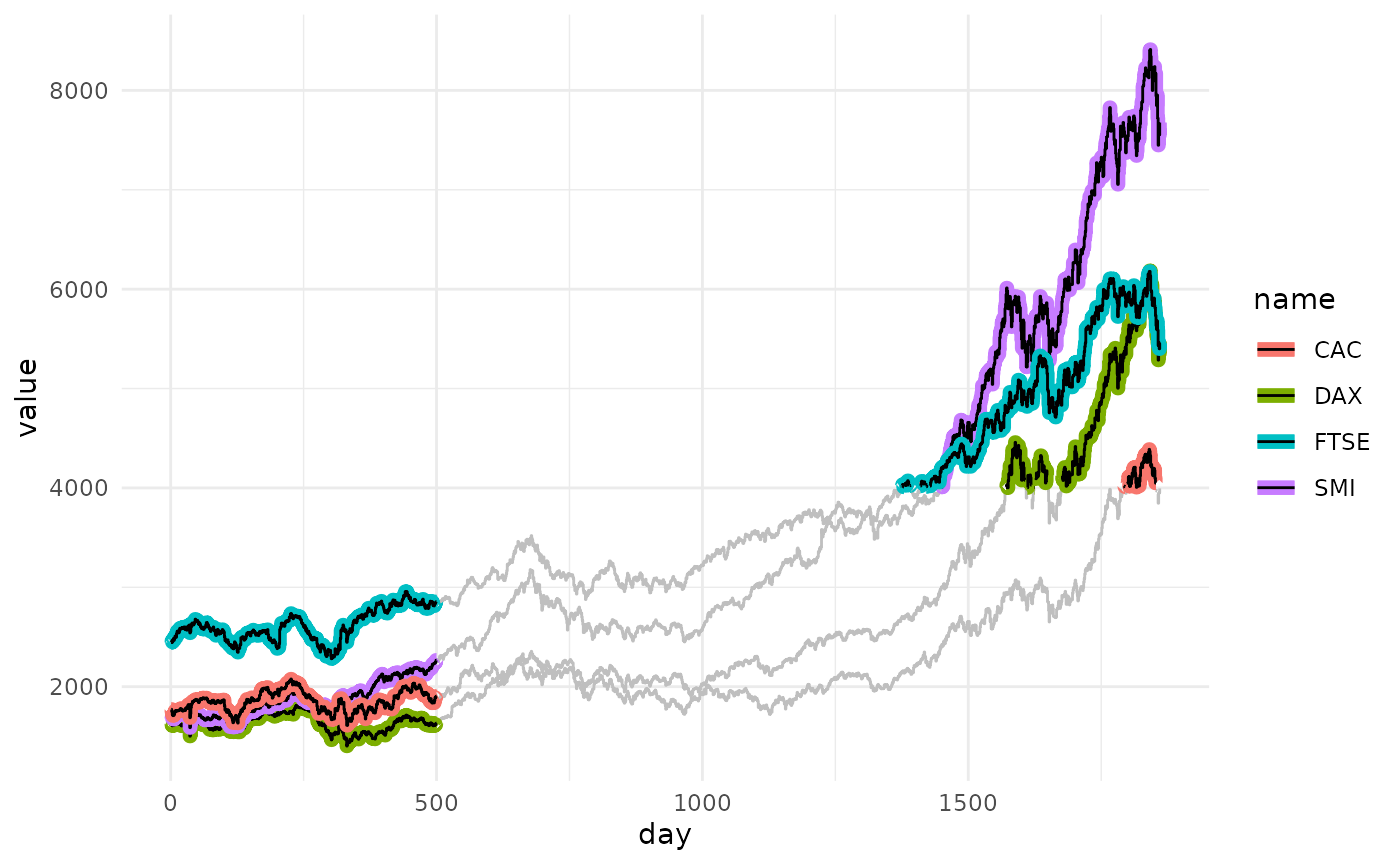
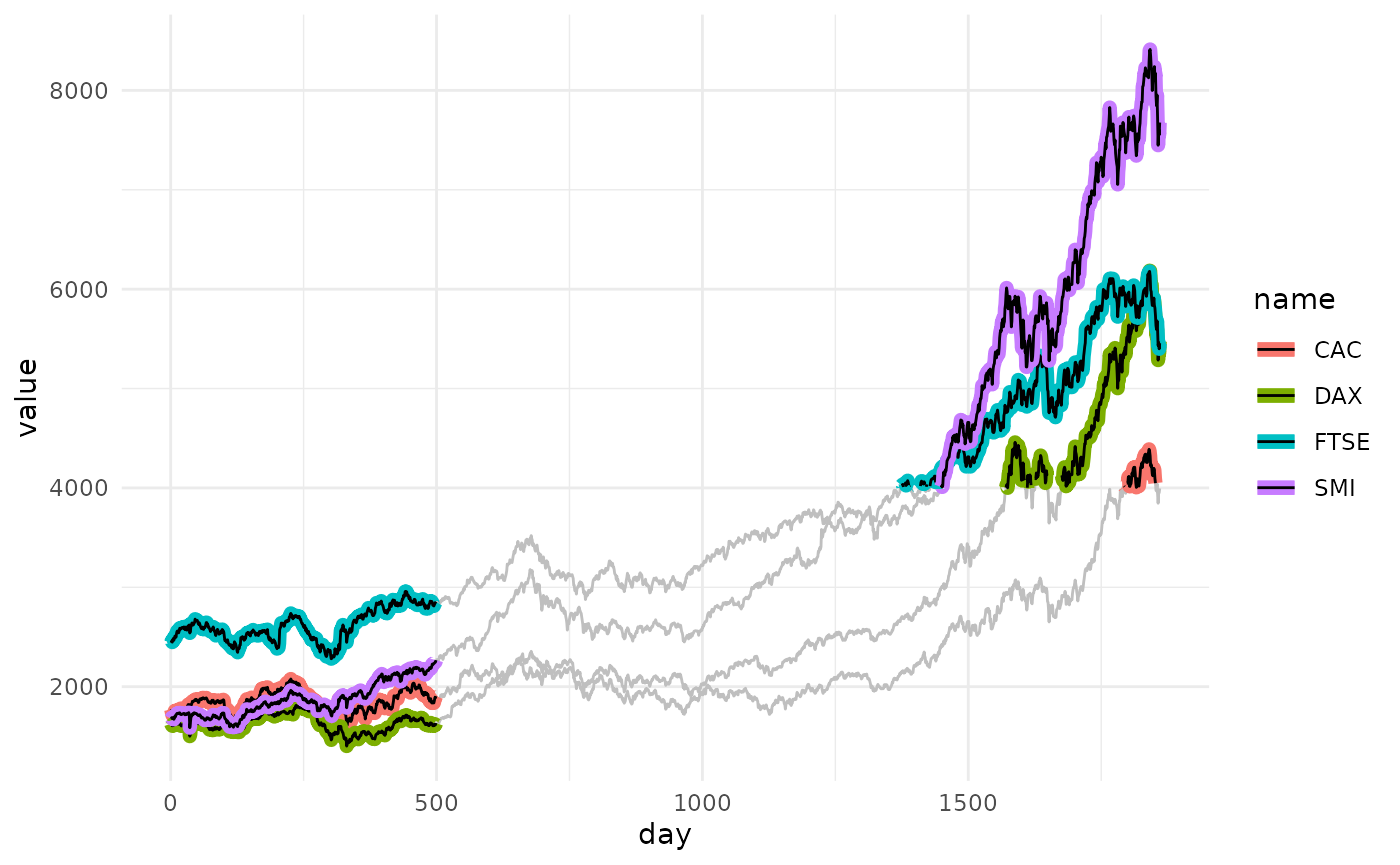
Built site for ggtrace: 0.0.0.9000@6da3d52

diff --git a/articles/geom-line-trace.html b/articles/geom-line-trace.html
@@ -84,7 +84,7 @@
     <div class="page-header toc-ignore">
       <h1 data-toc-skip>geom_line_trace</h1>
             
-            <h4 class="date">September 17 2021</h4>
+            <h4 class="date">September 21 2021</h4>
       
       <small class="dont-index">Source: <a href="https://github.com/rnabioco/ggtrace/blob/master/vignettes/geom-line-trace.Rmd"><code>vignettes/geom-line-trace.Rmd</code></a></small>
       <div class="hidden name"><code>geom-line-trace.Rmd</code></div>
@@ -138,8 +138,8 @@
 <code class="sourceCode R"><span class="va">clrs</span> <span class="op">&lt;-</span> <span class="fu"><a href="https://rdrr.io/r/base/c.html">c</a></span><span class="op">(</span>
   CAC  <span class="op">=</span> <span class="st">"#E69F00"</span>,
   DAX  <span class="op">=</span> <span class="st">"#0072B2"</span>,
-  SMI  <span class="op">=</span> <span class="st">"#56B4E9"</span>,
-  FTSE <span class="op">=</span> <span class="st">"#009E73"</span>
+  FTSE <span class="op">=</span> <span class="st">"#009E73"</span>,
+  SMI  <span class="op">=</span> <span class="st">"#56B4E9"</span>
 <span class="op">)</span>
 
 <span class="va">p</span> <span class="op">+</span>
@@ -170,10 +170,10 @@
 <p>The appearance of background lines can be modified by passing a named list of parameters to <code>background_params</code>.</p>
 <div class="sourceCode" id="cb5"><pre class="downlit sourceCode r">
 <code class="sourceCode R"><span class="va">p</span> <span class="op">+</span>
-  <span class="fu"><a href="../reference/geom_path_trace.html">geom_step_trace</a></span><span class="op">(</span>
+  <span class="fu"><a href="../reference/geom_path_trace.html">geom_line_trace</a></span><span class="op">(</span>
     trace_position    <span class="op">=</span> <span class="va">day</span> <span class="op">&lt;</span> <span class="fl">500</span> <span class="op">|</span> <span class="va">value</span> <span class="op">&gt;</span> <span class="fl">4000</span>,
     stroke            <span class="op">=</span> <span class="fl">1</span>,
-    background_params <span class="op">=</span> <span class="fu"><a href="https://rdrr.io/r/base/list.html">list</a></span><span class="op">(</span>fill <span class="op">=</span> <span class="st">"grey75"</span><span class="op">)</span>
+    background_params <span class="op">=</span> <span class="fu"><a href="https://rdrr.io/r/base/list.html">list</a></span><span class="op">(</span>color <span class="op">=</span> <span class="cn">NA</span>, fill <span class="op">=</span> <span class="st">"grey75"</span><span class="op">)</span>
   <span class="op">)</span></code></pre></div>
 <p><img src="geom-line-trace_files/figure-html/unnamed-chunk-5-1.png" width="700"></p>
 <p><br></p>
@@ -183,7 +183,7 @@
   <span class="fu"><a href="../reference/geom_path_trace.html">geom_line_trace</a></span><span class="op">(</span>
     trace_position    <span class="op">=</span> <span class="fu"><a href="https://rdrr.io/r/base/grep.html">grepl</a></span><span class="op">(</span><span class="st">"^[A-Z]A"</span>, <span class="va">name</span><span class="op">)</span>,
     stroke            <span class="op">=</span> <span class="fl">1</span>,
-    background_params <span class="op">=</span> <span class="fu"><a href="https://rdrr.io/r/base/list.html">list</a></span><span class="op">(</span>linetype <span class="op">=</span> <span class="fl">2</span><span class="op">)</span>
+    background_params <span class="op">=</span> <span class="fu"><a href="https://rdrr.io/r/base/list.html">list</a></span><span class="op">(</span>color <span class="op">=</span> <span class="cn">NA</span>, linetype <span class="op">=</span> <span class="fl">2</span><span class="op">)</span>
   <span class="op">)</span></code></pre></div>
 <p><img src="geom-line-trace_files/figure-html/unnamed-chunk-6-1.png" width="700"></p>
 <p><br></p>

diff --git a/reference/geom_path_trace.html b/reference/geom_path_trace.html
@@ -6,7 +6,7 @@
 <meta http-equiv="X-UA-Compatible" content="IE=edge">
 <meta name="viewport" content="width=device-width, initial-scale=1.0">
 
-<title>Trace lines to improve clarity of plots with overplotted geoms. — geom_path_trace • ggtrace</title>
+<title>Trace lines to improve clarity of plots with overplotted geoms — geom_path_trace • ggtrace</title>
 
 
 <!-- jquery -->
@@ -39,8 +39,8 @@
 
 
 
-<meta property="og:title" content="Trace lines to improve clarity of plots with overplotted geoms. — geom_path_trace" />
-<meta property="og:description" content="Trace lines to improve clarity of plots with overplotted geoms." />
+<meta property="og:title" content="Trace lines to improve clarity of plots with overplotted geoms — geom_path_trace" />
+<meta property="og:description" content="Trace lines to improve clarity of plots with overplotted geoms" />
 
 
 
@@ -123,13 +123,13 @@
 <div class="row">
   <div class="col-md-9 contents">
     <div class="page-header">
-    <h1>Trace lines to improve clarity of plots with overplotted geoms.</h1>
+    <h1>Trace lines to improve clarity of plots with overplotted geoms</h1>
     <small class="dont-index">Source: <a href='https://github.com/rnabioco/ggtrace/blob/master/R/geom-path-trace.R'><code>R/geom-path-trace.R</code></a></small>
     <div class="hidden name"><code>geom_path_trace.Rd</code></div>
     </div>
 
     <div class="ref-description">
-    <p>Trace lines to improve clarity of plots with overplotted geoms.</p>
+    <p>Trace lines to improve clarity of plots with overplotted geoms</p>
     </div>
 
     <pre class="usage"><span class='fu'>geom_path_trace</span><span class='op'>(</span>
@@ -139,7 +139,7 @@
   position <span class='op'>=</span> <span class='st'>"identity"</span>,
   <span class='va'>...</span>,
   trace_position <span class='op'>=</span> <span class='st'>"all"</span>,
-  background_params <span class='op'>=</span> <span class='cn'>NULL</span>,
+  background_params <span class='op'>=</span> <span class='fu'><a href='https://rdrr.io/r/base/list.html'>list</a></span><span class='op'>(</span>color <span class='op'>=</span> <span class='cn'>NA</span><span class='op'>)</span>,
   lineend <span class='op'>=</span> <span class='st'>"butt"</span>,
   linejoin <span class='op'>=</span> <span class='st'>"round"</span>,
   linemitre <span class='op'>=</span> <span class='fl'>10</span>,
@@ -159,7 +159,7 @@
   show.legend <span class='op'>=</span> <span class='cn'>NA</span>,
   inherit.aes <span class='op'>=</span> <span class='cn'>TRUE</span>,
   trace_position <span class='op'>=</span> <span class='st'>"all"</span>,
-  background_params <span class='op'>=</span> <span class='cn'>NULL</span>,
+  background_params <span class='op'>=</span> <span class='fu'><a href='https://rdrr.io/r/base/list.html'>list</a></span><span class='op'>(</span>color <span class='op'>=</span> <span class='cn'>NA</span><span class='op'>)</span>,
   <span class='va'>...</span>
 <span class='op'>)</span>
 
@@ -173,7 +173,7 @@
   show.legend <span class='op'>=</span> <span class='cn'>NA</span>,
   inherit.aes <span class='op'>=</span> <span class='cn'>TRUE</span>,
   trace_position <span class='op'>=</span> <span class='st'>"all"</span>,
-  background_params <span class='op'>=</span> <span class='cn'>NULL</span>,
+  background_params <span class='op'>=</span> <span class='fu'><a href='https://rdrr.io/r/base/list.html'>list</a></span><span class='op'>(</span>color <span class='op'>=</span> <span class='cn'>NA</span><span class='op'>)</span>,
   <span class='va'>...</span>
 <span class='op'>)</span></pre>
 

diff --git a/articles/geom-point-trace.html b/articles/geom-point-trace.html
@@ -84,7 +84,7 @@
     <div class="page-header toc-ignore">
       <h1 data-toc-skip>geom_point_trace</h1>
             
-            <h4 class="date">September 17 2021</h4>
+            <h4 class="date">September 21 2021</h4>
       
       <small class="dont-index">Source: <a href="https://github.com/rnabioco/ggtrace/blob/master/vignettes/geom-point-trace.Rmd"><code>vignettes/geom-point-trace.Rmd</code></a></small>
       <div class="hidden name"><code>geom-point-trace.Rmd</code></div>
@@ -191,7 +191,7 @@
 <code class="sourceCode R"><span class="va">p</span> <span class="op">+</span>
   <span class="fu"><a href="../reference/geom_point_trace.html">geom_point_trace</a></span><span class="op">(</span>
     trace_position    <span class="op">=</span> <span class="va">signal</span> <span class="op">&lt;</span> <span class="fl">0</span>,
-    background_params <span class="op">=</span> <span class="fu"><a href="https://rdrr.io/r/base/list.html">list</a></span><span class="op">(</span>fill <span class="op">=</span> <span class="st">"grey85"</span><span class="op">)</span>
+    background_params <span class="op">=</span> <span class="fu"><a href="https://rdrr.io/r/base/list.html">list</a></span><span class="op">(</span>color <span class="op">=</span> <span class="cn">NA</span>, fill <span class="op">=</span> <span class="st">"grey85"</span><span class="op">)</span>
   <span class="op">)</span></code></pre></div>
 <p><img src="geom-point-trace_files/figure-html/unnamed-chunk-7-1.png" width="700"></p>
 <p><br></p>
@@ -201,7 +201,7 @@
   <span class="fu"><a href="../reference/geom_point_trace.html">geom_point_trace</a></span><span class="op">(</span>
     trace_position    <span class="op">=</span> <span class="va">signal</span> <span class="op">&lt;</span> <span class="fl">0</span>,
     color             <span class="op">=</span> <span class="cn">NA</span>,
-    background_params <span class="op">=</span> <span class="fu"><a href="https://rdrr.io/r/base/list.html">list</a></span><span class="op">(</span>fill <span class="op">=</span> <span class="st">"grey85"</span><span class="op">)</span>
+    background_params <span class="op">=</span> <span class="fu"><a href="https://rdrr.io/r/base/list.html">list</a></span><span class="op">(</span>color <span class="op">=</span> <span class="cn">NA</span>, fill <span class="op">=</span> <span class="st">"grey85"</span><span class="op">)</span>
   <span class="op">)</span></code></pre></div>
 <p><img src="geom-point-trace_files/figure-html/unnamed-chunk-8-1.png" width="700"></p>
 </div>

diff --git a/reference/geom_point_trace.html b/reference/geom_point_trace.html
@@ -6,7 +6,7 @@
 <meta http-equiv="X-UA-Compatible" content="IE=edge">
 <meta name="viewport" content="width=device-width, initial-scale=1.0">
 
-<title>Trace points to improve clarity of plots with overplotted geoms. — geom_point_trace • ggtrace</title>
+<title>Trace points to improve clarity of plots with overplotted geoms — geom_point_trace • ggtrace</title>
 
 
 <!-- jquery -->
@@ -39,8 +39,8 @@
 
 
 
-<meta property="og:title" content="Trace points to improve clarity of plots with overplotted geoms. — geom_point_trace" />
-<meta property="og:description" content="Trace points to improve clarity of plots with overplotted geoms." />
+<meta property="og:title" content="Trace points to improve clarity of plots with overplotted geoms — geom_point_trace" />
+<meta property="og:description" content="Trace points to improve clarity of plots with overplotted geoms" />
 
 
 
@@ -123,13 +123,13 @@
 <div class="row">
   <div class="col-md-9 contents">
     <div class="page-header">
-    <h1>Trace points to improve clarity of plots with overplotted geoms.</h1>
+    <h1>Trace points to improve clarity of plots with overplotted geoms</h1>
     <small class="dont-index">Source: <a href='https://github.com/rnabioco/ggtrace/blob/master/R/geom-point-trace.R'><code>R/geom-point-trace.R</code></a></small>
     <div class="hidden name"><code>geom_point_trace.Rd</code></div>
     </div>
 
     <div class="ref-description">
-    <p>Trace points to improve clarity of plots with overplotted geoms.</p>
+    <p>Trace points to improve clarity of plots with overplotted geoms</p>
     </div>
 
     <pre class="usage"><span class='fu'>geom_point_trace</span><span class='op'>(</span>
@@ -139,7 +139,7 @@
   position <span class='op'>=</span> <span class='st'>"identity"</span>,
   <span class='va'>...</span>,
   trace_position <span class='op'>=</span> <span class='st'>"all"</span>,
-  background_params <span class='op'>=</span> <span class='cn'>NULL</span>,
+  background_params <span class='op'>=</span> <span class='fu'><a href='https://rdrr.io/r/base/list.html'>list</a></span><span class='op'>(</span>color <span class='op'>=</span> <span class='cn'>NA</span><span class='op'>)</span>,
   na.rm <span class='op'>=</span> <span class='cn'>FALSE</span>,
   show.legend <span class='op'>=</span> <span class='cn'>NA</span>,
   inherit.aes <span class='op'>=</span> <span class='cn'>TRUE</span>

diff --git a/index.html b/index.html
@@ -111,7 +111,7 @@
   <span class="fu"><a href="reference/geom_point_trace.html">geom_point_trace</a></span><span class="op">(</span>
     trace_position    <span class="op">=</span> <span class="va">signal</span> <span class="op">&lt;</span> <span class="fl">0</span>,
     fill              <span class="op">=</span> <span class="st">"white"</span>,
-    background_params <span class="op">=</span> <span class="fu"><a href="https://rdrr.io/r/base/list.html">list</a></span><span class="op">(</span>fill <span class="op">=</span> <span class="st">"grey85"</span><span class="op">)</span>
+    background_params <span class="op">=</span> <span class="fu"><a href="https://rdrr.io/r/base/list.html">list</a></span><span class="op">(</span>color <span class="op">=</span> <span class="cn">NA</span>, fill <span class="op">=</span> <span class="st">"grey85"</span><span class="op">)</span>
   <span class="op">)</span></code></pre></div>
 <p><img src="reference/figures/README-unnamed-chunk-2-1.png" width="100%"></p>
 <p><br></p>
@@ -122,7 +122,7 @@
   <span class="fu"><a href="reference/geom_path_trace.html">geom_line_trace</a></span><span class="op">(</span>
     trace_position    <span class="op">=</span> <span class="va">day</span> <span class="op">&lt;</span> <span class="fl">500</span> <span class="op">|</span> <span class="va">day</span> <span class="op">&gt;</span> <span class="fl">1500</span>,
     stroke            <span class="op">=</span> <span class="fl">1</span>,
-    background_params <span class="op">=</span> <span class="fu"><a href="https://rdrr.io/r/base/list.html">list</a></span><span class="op">(</span>fill <span class="op">=</span> <span class="st">"grey75"</span><span class="op">)</span>
+    background_params <span class="op">=</span> <span class="fu"><a href="https://rdrr.io/r/base/list.html">list</a></span><span class="op">(</span>color <span class="op">=</span> <span class="cn">NA</span>, fill <span class="op">=</span> <span class="st">"grey75"</span><span class="op">)</span>
   <span class="op">)</span></code></pre></div>
 <p><img src="reference/figures/README-unnamed-chunk-3-1.png" width="100%"></p>
 </div>

diff --git a/reference/ggtrace.html b/reference/ggtrace.html
@@ -145,6 +145,14 @@
 <p><code><a href='https://rdrr.io/r/utils/browseVignettes.html'>browseVignettes("ggtrace")</a></code></p>
 <p>Please report issues and suggest improvements at Github:</p>
 <p><a href='https://github.com/rnabioco/ggtrace'>https://github.com/rnabioco/ggtrace</a></p>
+    <h2 class="hasAnchor" id="see-also"><a class="anchor" href="#see-also"></a>See also</h2>
+
+    <div class='dont-index'><p>Useful links:</p><ul>
+<li><p><a href='https://github.com/rnabioco/ggtrace'>https://github.com/rnabioco/ggtrace</a></p></li>
+<li><p>Report bugs at <a href='https://github.com/rnabioco/ggtrace/issues'>https://github.com/rnabioco/ggtrace/issues</a></p></li>
+</ul>
+
+</div>
     <h2 class="hasAnchor" id="author"><a class="anchor" href="#author"></a>Author</h2>
 
     <p><strong>Maintainer</strong>: Ryan Sheridan <a href='mailto:ryan.sheridan@cuanschutz.edu'>ryan.sheridan@cuanschutz.edu</a> (<a href='https://orcid.org/0000-0003-4012-3147'>ORCID</a>)</p>

diff --git a/reference/index.html b/reference/index.html
@@ -150,13 +150,13 @@
         <td>
           <p><code><a href="geom_path_trace.html">geom_path_trace()</a></code> <code><a href="geom_path_trace.html">geom_line_trace()</a></code> <code><a href="geom_path_trace.html">geom_step_trace()</a></code> </p>
         </td>
-        <td><p>Trace lines to improve clarity of plots with overplotted geoms.</p></td>
+        <td><p>Trace lines to improve clarity of plots with overplotted geoms</p></td>
       </tr><tr>
         
         <td>
           <p><code><a href="geom_point_trace.html">geom_point_trace()</a></code> </p>
         </td>
-        <td><p>Trace points to improve clarity of plots with overplotted geoms.</p></td>
+        <td><p>Trace points to improve clarity of plots with overplotted geoms</p></td>
       </tr>
     </tbody><tbody>
       <tr>
